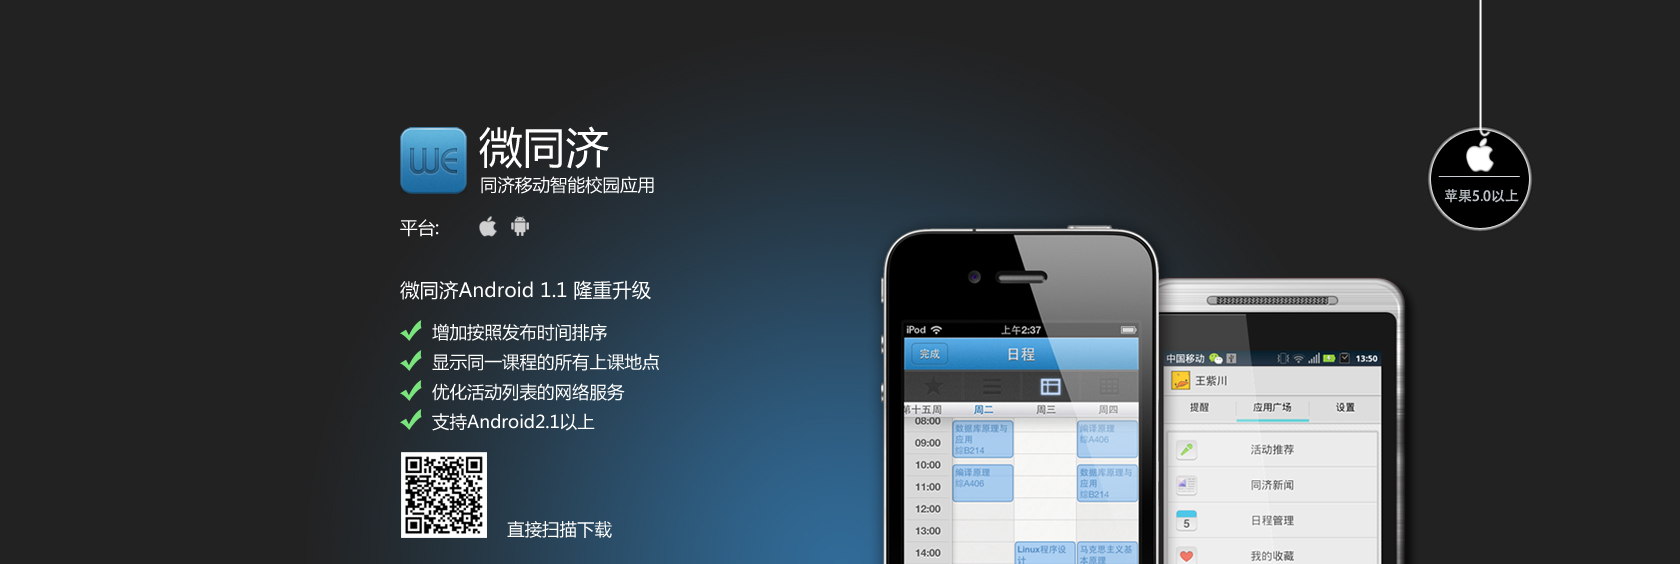
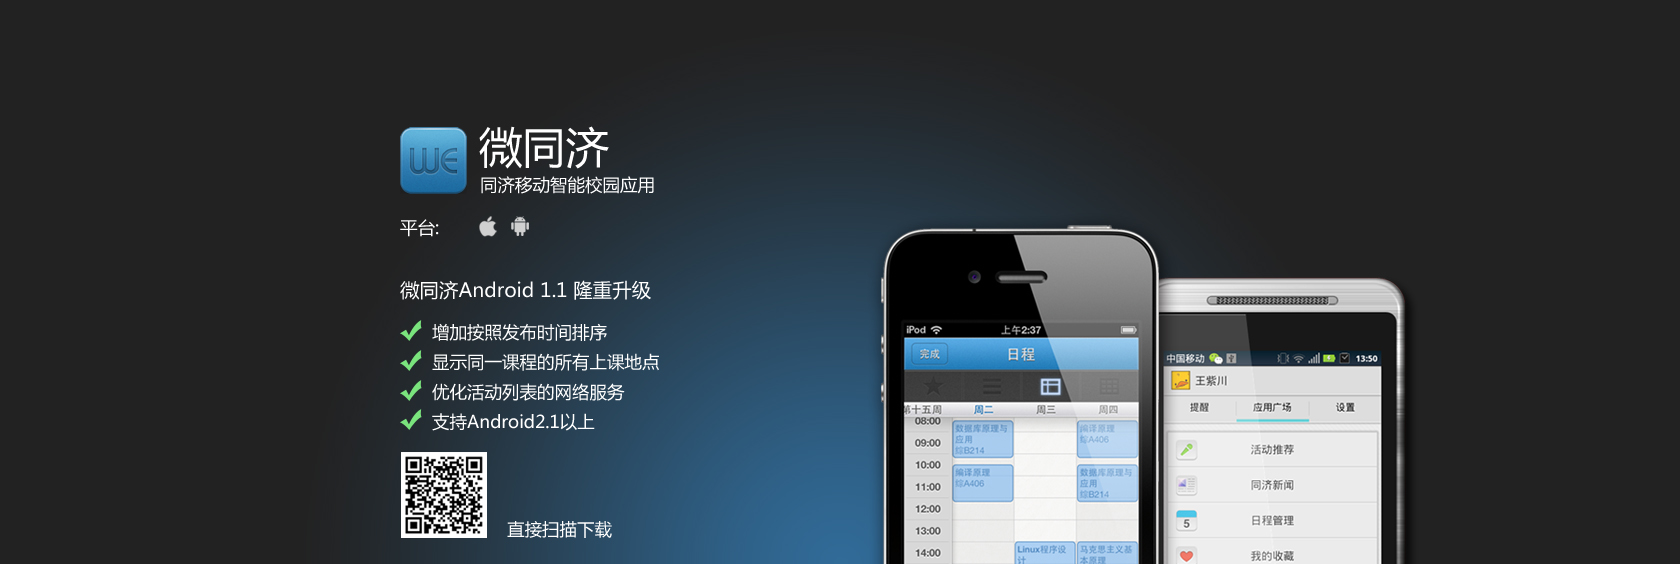
update index view

Changed region(s): [[0.8357, 0.211, 0.9286, 0.422]]

diff --git a/public/stylesheets/we.css b/public/stylesheets/we.css
@@ -537,8 +537,8 @@ transition: opacity 0.15s ease-out;
 .copright{font-size: 11px;}
 
 .lang_en .main .container{ height: 100%; background: #000 url(../images/header_backgroundEn.jpg) top center no-repeat; width: 100%;}
-.lang_en .download .direct a{width: 188px; display: block; height: 147px; text-indent: -9999px; background: url(../images/app-store-btnEn.png) no-repeat;background-position: 0 0px;}
-.lang_en .download .android a{position: absolute;right: 20px;top: 70px;width: 170px; height: 49px;
+.lang_en .download .direct a{width: 188px; display: block; right: 10px;top: 0px;width: 106px; height:  232px; text-indent: -9999px; background: url(../images/app-store-btnEn.png) no-repeat;background-position: 0 0px;}
+.lang_en .download .android a{position: absolute;right: 140px;top: 0px;width: 106px; height: 173px;
 	background: url(../images/android-download-btnEn.png) no-repeat;background-position: 0 0;}
 .lang_en .description{font-size: 40px;}
 
